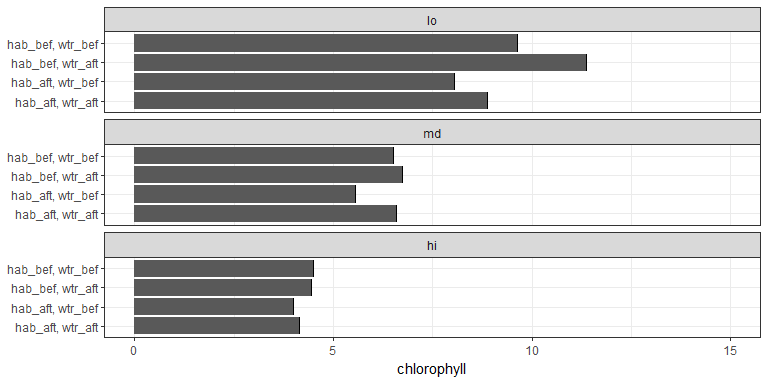
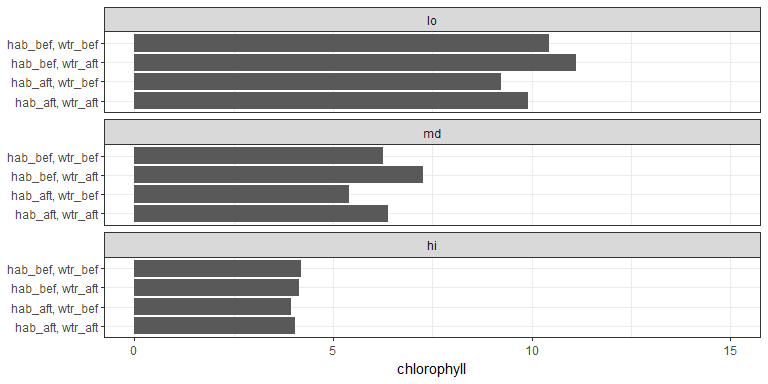
yrdf two on both sub_eval

diff --git a/sub_eval.html b/sub_eval.html
@@ -170,7 +170,7 @@ source('R/rnd_dat.R')
 
 # Set parameters, yr half-window for matching, mtch is number of closest matches
 yrdf &lt;- 5
-mtch &lt;- 10
+mtch &lt;- 2
 
 # base map
 ext &lt;- make_bbox(reststat$lon, reststat$lat, f = 0.1)
@@ -186,15 +186,12 @@ pbase &lt;- ggmap(map) +
 <pre class="r"><code># summarize observed
 toplo &lt;- allchg %&gt;% 
   group_by(hab, wtr, salev) %&gt;% 
-  summarise(
-    chvalmd = median(chval, na.rm = T),
-    chvallo = chvalmd, 
-    chvalhi = chvalmd
-  ) %&gt;% 
+  summarize(
+    chvalmd = mean(chval, na.rm = T)
+    )  %&gt;% 
   unite('rest', hab, wtr, sep = ', ') %&gt;% 
   mutate(
-    salev = factor(salev, levels = c('lo', 'md', 'hi')), 
-    dat = 'Observed'
+    salev = factor(salev, levels = c('lo', 'md', 'hi')) 
   )
 
 # plot
@@ -203,12 +200,11 @@ ggplot(toplo, aes(x = rest, y = chvalmd)) +
   theme(
     axis.title.y = element_blank()
   ) +
-  geom_bar(stat = 'identity') + 
-  geom_errorbar(aes(ymin = chvallo, ymax = chvalhi)) + 
+  geom_bar(stat = 'identity') +
   facet_wrap(~ salev, ncol = 1) + 
   coord_flip() +
   scale_y_continuous('chlorophyll', limits = c(0, 15))</code></pre>
[2 lines of base64/hex data omitted]
 <pre class="r"><code># combine restoration locations, date, type
 resgrp &lt;- 'top'
 restall &lt;- left_join(restdat, reststat, by = 'id')
@@ -237,32 +233,27 @@ ggplot(restall, aes(x = factor(date))) +
 </div>
 <div id="pre-1994-data" class="section level2">
 <h2>Pre-1994 data</h2>
-<pre class="r"><code># get sub data
+<pre class="r"><code># get sub data, restoration sites
 restdat_sub &lt;- restdat %&gt;% 
   filter(date &lt; 1994)
 reststat_sub &lt;- reststat %&gt;% 
   filter(id %in% restdat_sub$id)
 
 # run all conditional prob functions
-allchg_pre &lt;- get_all(restdat_sub, reststat_sub, wqdat, wqstat, mtch = 2, yrdf = yrdf, resgrp = 'top', qts = c(0.33, 0.66), 
-                  lbs = c('lo', 'md', 'hi'), 'hab', 'wtr') %&gt;% 
-  group_by(hab, wtr, salev) %&gt;% 
-  summarize(chval = mean(cval, na.rm = T)) %&gt;% 
-  na.omit
+allchg_pre &lt;- get_all(restdat_sub, reststat_sub, wqdat, wqstat, mtch = mtch, yrdf = yrdf, resgrp = 'top', 
+                      qts = c(0.33, 0.66), lbs = c('lo', 'md', 'hi'), 'hab', 'wtr')
 
-# summarize observed
 toplo &lt;- allchg_pre %&gt;% 
   group_by(hab, wtr, salev) %&gt;% 
-  summarise(
-    chvalmd = median(chval, na.rm = T),
-    chvallo = chvalmd, 
-    chvalhi = chvalmd
-  ) %&gt;% 
+  summarize(
+    chvalmd = mean(cval, na.rm = T)
+    ) %&gt;% 
+  na.omit %&gt;% 
   unite('rest', hab, wtr, sep = ', ') %&gt;% 
   mutate(
-    salev = factor(salev, levels = c('lo', 'md', 'hi')), 
-    dat = 'Observed'
+    salev = factor(salev, levels = c('lo', 'md', 'hi')) 
   )
+
 
 # plot
 ggplot(toplo, aes(x = rest, y = chvalmd)) + 
@@ -270,12 +261,11 @@ ggplot(toplo, aes(x = rest, y = chvalmd)) +
   theme(
     axis.title.y = element_blank()
   ) +
-  geom_bar(stat = 'identity') + 
-  geom_errorbar(aes(ymin = chvallo, ymax = chvalhi)) + 
+  geom_bar(stat = 'identity') +
   facet_wrap(~ salev, ncol = 1) + 
   coord_flip() +
-  scale_y_continuous('chlorophyll', limits = c(0, 15))</code></pre>
[1 lines of base64/hex data omitted]
+  scale_y_continuous('chlorophyll', limits = c(0,15))</code></pre>
[1 lines of base64/hex data omitted]
 <pre class="r"><code># combine restoration locations, date, type
 resgrp &lt;- 'top'
 restall_sub &lt;- left_join(restdat_sub, reststat_sub, by = 'id')
@@ -304,7 +294,7 @@ ggplot(restall_sub, aes(x = factor(date))) +
 </div>
 <div id="post-1994-data" class="section level2">
 <h2>Post-1994 data</h2>
-<pre class="r"><code># get sub data
+<pre class="r"><code># get sub data, restoration sites
 restdat_sub &lt;- restdat %&gt;% 
   filter(date &gt;= 1994)
 reststat_sub &lt;- reststat %&gt;% 
@@ -312,18 +302,14 @@ reststat_sub &lt;- reststat %&gt;%
 
 # run all conditional prob functions
 allchg_pst &lt;- get_all(restdat_sub, reststat_sub, wqdat, wqstat, mtch = mtch, yrdf = yrdf, resgrp = 'top', qts = c(0.33, 0.66), 
-                  lbs = c('lo', 'md', 'hi'), 'hab', 'wtr') %&gt;% 
-  group_by(hab, wtr, salev) %&gt;% 
-  summarize(chval = mean(cval, na.rm = T))
+                  lbs = c('lo', 'md', 'hi'), 'hab', 'wtr')
 
-# summarize observed
+# summarize
 toplo &lt;- allchg_pst %&gt;% 
   group_by(hab, wtr, salev) %&gt;% 
-  summarise(
-    chvalmd = median(chval, na.rm = T),
-    chvallo = chvalmd, 
-    chvalhi = chvalmd
-  ) %&gt;% 
+  summarize(
+    chvalmd = mean(cval, na.rm = T)
+    ) %&gt;% 
   unite('rest', hab, wtr, sep = ', ') %&gt;% 
   mutate(
     salev = factor(salev, levels = c('lo', 'md', 'hi')), 
@@ -336,12 +322,11 @@ ggplot(toplo, aes(x = rest, y = chvalmd)) +
   theme(
     axis.title.y = element_blank()
   ) +
-  geom_bar(stat = 'identity') + 
-  geom_errorbar(aes(ymin = chvallo, ymax = chvalhi)) + 
+  geom_bar(stat = 'identity') +
   facet_wrap(~ salev, ncol = 1) + 
   coord_flip() +
   scale_y_continuous('chlorophyll', limits = c(0, 15))</code></pre>
[2 lines of base64/hex data omitted]
 <pre class="r"><code># combine restoration locations, date, type
 resgrp &lt;- 'top'
 restall_sub &lt;- left_join(restdat_sub, reststat_sub, by = 'id')

diff --git a/sub_eval.md b/sub_eval.md
@@ -35,7 +35,7 @@ source('R/rnd_dat.R')
 
 # Set parameters, yr half-window for matching, mtch is number of closest matches
 yrdf <- 5
-mtch <- 10
+mtch <- 2
 
 # base map
 ext <- make_bbox(reststat$lon, reststat$lat, f = 0.1)
@@ -55,15 +55,12 @@ pbase <- ggmap(map) +
 # summarize observed
 toplo <- allchg %>% 
   group_by(hab, wtr, salev) %>% 
-  summarise(
-    chvalmd = median(chval, na.rm = T),
-    chvallo = chvalmd, 
-    chvalhi = chvalmd
-  ) %>% 
+  summarize(
+    chvalmd = mean(chval, na.rm = T)
+    )  %>% 
   unite('rest', hab, wtr, sep = ', ') %>% 
   mutate(
-    salev = factor(salev, levels = c('lo', 'md', 'hi')), 
-    dat = 'Observed'
+    salev = factor(salev, levels = c('lo', 'md', 'hi')) 
   )
 
 # plot
@@ -72,8 +69,7 @@ ggplot(toplo, aes(x = rest, y = chvalmd)) +
   theme(
     axis.title.y = element_blank()
   ) +
-  geom_bar(stat = 'identity') + 
-  geom_errorbar(aes(ymin = chvallo, ymax = chvalhi)) + 
+  geom_bar(stat = 'identity') +
   facet_wrap(~ salev, ncol = 1) + 
   coord_flip() +
   scale_y_continuous('chlorophyll', limits = c(0, 15))
@@ -123,32 +119,27 @@ ggplot(restall, aes(x = factor(date))) +
 
 
 ```r
-# get sub data
+# get sub data, restoration sites
 restdat_sub <- restdat %>% 
   filter(date < 1994)
 reststat_sub <- reststat %>% 
   filter(id %in% restdat_sub$id)
 
 # run all conditional prob functions
-allchg_pre <- get_all(restdat_sub, reststat_sub, wqdat, wqstat, mtch = 2, yrdf = yrdf, resgrp = 'top', qts = c(0.33, 0.66), 
-                  lbs = c('lo', 'md', 'hi'), 'hab', 'wtr') %>% 
-  group_by(hab, wtr, salev) %>% 
-  summarize(chval = mean(cval, na.rm = T)) %>% 
-  na.omit
+allchg_pre <- get_all(restdat_sub, reststat_sub, wqdat, wqstat, mtch = mtch, yrdf = yrdf, resgrp = 'top', 
+                      qts = c(0.33, 0.66), lbs = c('lo', 'md', 'hi'), 'hab', 'wtr')
 
-# summarize observed
 toplo <- allchg_pre %>% 
   group_by(hab, wtr, salev) %>% 
-  summarise(
-    chvalmd = median(chval, na.rm = T),
-    chvallo = chvalmd, 
-    chvalhi = chvalmd
-  ) %>% 
+  summarize(
+    chvalmd = mean(cval, na.rm = T)
+    ) %>% 
+  na.omit %>% 
   unite('rest', hab, wtr, sep = ', ') %>% 
   mutate(
-    salev = factor(salev, levels = c('lo', 'md', 'hi')), 
-    dat = 'Observed'
+    salev = factor(salev, levels = c('lo', 'md', 'hi')) 
   )
+
 
 # plot
 ggplot(toplo, aes(x = rest, y = chvalmd)) + 
@@ -156,11 +147,10 @@ ggplot(toplo, aes(x = rest, y = chvalmd)) +
   theme(
     axis.title.y = element_blank()
   ) +
-  geom_bar(stat = 'identity') + 
-  geom_errorbar(aes(ymin = chvallo, ymax = chvalhi)) + 
+  geom_bar(stat = 'identity') +
   facet_wrap(~ salev, ncol = 1) + 
   coord_flip() +
-  scale_y_continuous('chlorophyll', limits = c(0, 15))
+  scale_y_continuous('chlorophyll', limits = c(0,15))
 ```
 
 ![](sub_eval_files/figure-html/unnamed-chunk-3-1.png)<!-- -->
@@ -207,7 +197,7 @@ ggplot(restall_sub, aes(x = factor(date))) +
 
 
 ```r
-# get sub data
+# get sub data, restoration sites
 restdat_sub <- restdat %>% 
   filter(date >= 1994)
 reststat_sub <- reststat %>% 
@@ -215,18 +205,14 @@ reststat_sub <- reststat %>%
 
 # run all conditional prob functions
 allchg_pst <- get_all(restdat_sub, reststat_sub, wqdat, wqstat, mtch = mtch, yrdf = yrdf, resgrp = 'top', qts = c(0.33, 0.66), 
-                  lbs = c('lo', 'md', 'hi'), 'hab', 'wtr') %>% 
-  group_by(hab, wtr, salev) %>% 
-  summarize(chval = mean(cval, na.rm = T))
+                  lbs = c('lo', 'md', 'hi'), 'hab', 'wtr')
 
-# summarize observed
+# summarize
 toplo <- allchg_pst %>% 
   group_by(hab, wtr, salev) %>% 
-  summarise(
-    chvalmd = median(chval, na.rm = T),
-    chvallo = chvalmd, 
-    chvalhi = chvalmd
-  ) %>% 
+  summarize(
+    chvalmd = mean(cval, na.rm = T)
+    ) %>% 
   unite('rest', hab, wtr, sep = ', ') %>% 
   mutate(
     salev = factor(salev, levels = c('lo', 'md', 'hi')), 
@@ -239,8 +225,7 @@ ggplot(toplo, aes(x = rest, y = chvalmd)) +
   theme(
     axis.title.y = element_blank()
   ) +
-  geom_bar(stat = 'identity') + 
-  geom_errorbar(aes(ymin = chvallo, ymax = chvalhi)) + 
+  geom_bar(stat = 'identity') +
   facet_wrap(~ salev, ncol = 1) + 
   coord_flip() +
   scale_y_continuous('chlorophyll', limits = c(0, 15))
